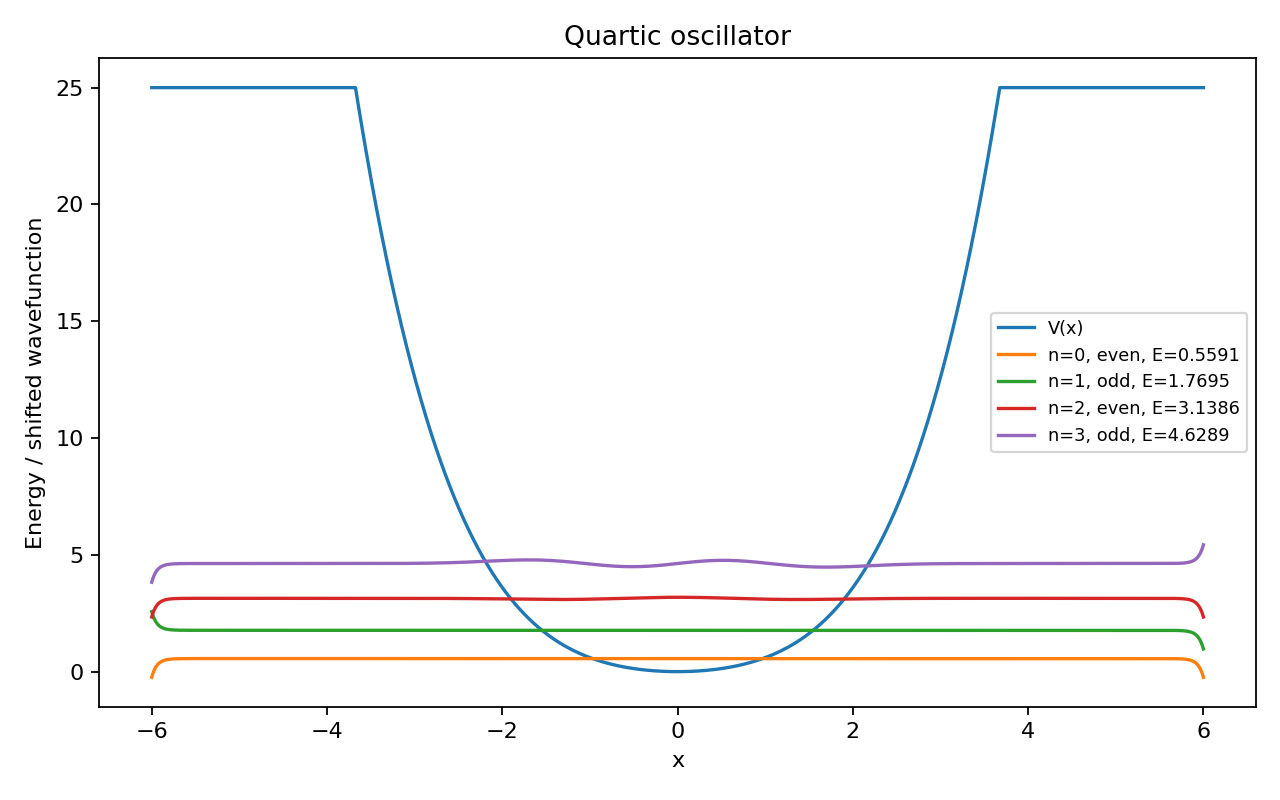
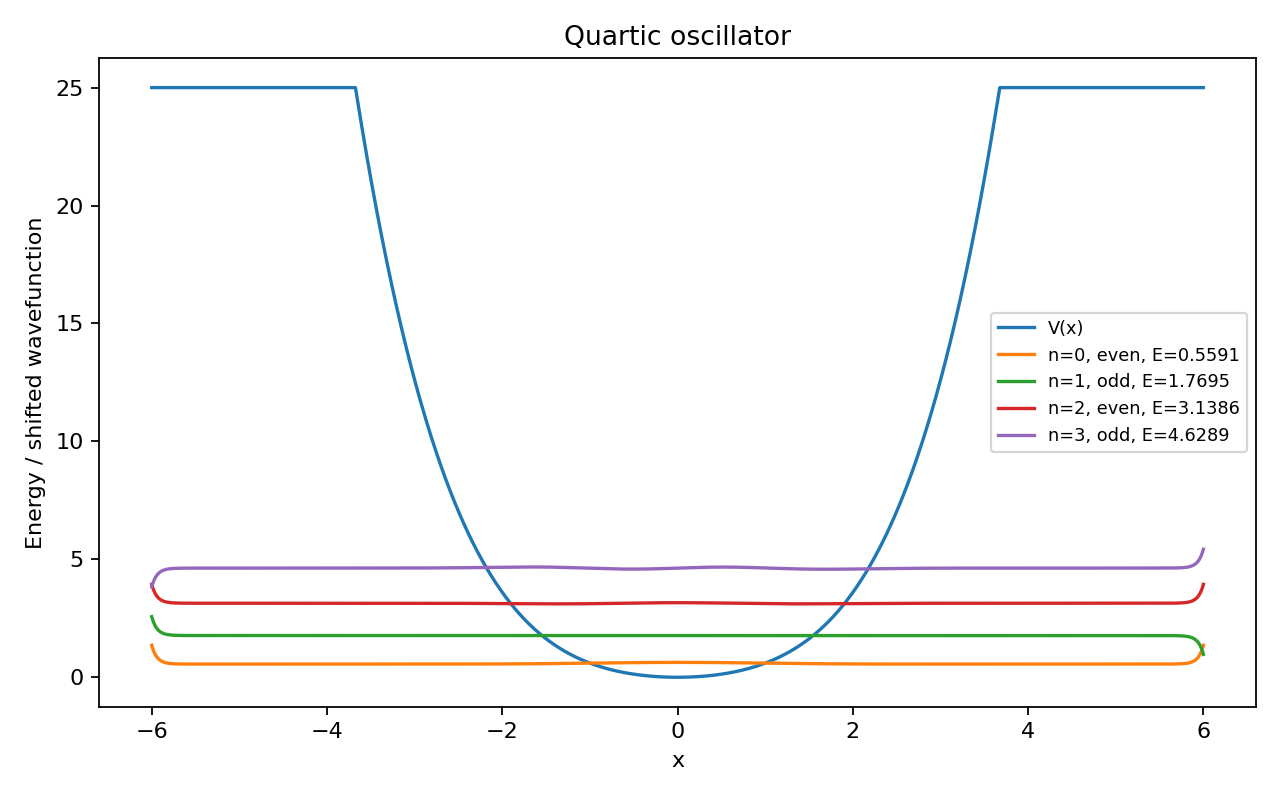
Debugged infinite Square Well

Changed region(s): [[0.0938, 0.5938, 0.9375, 0.875], [0.0312, 0.5312, 0.0625, 0.5625], [0.0312, 0.25, 0.0625, 0.2812]]

diff --git a/tests/test_solver.py b/tests/test_solver.py
@@ -18,7 +18,12 @@ if str(PROJECT_ROOT) not in sys.path:
 
 import numpy as np
 
-from src.analysis import exact_harmonic_oscillator_energies, exact_square_well_energies
+from src.analysis import (
+    convergence_vs_grid,
+    estimate_convergence_slopes,
+    exact_harmonic_oscillator_energies,
+    exact_square_well_energies,
+)
 from src.numerov import derivative_at_right_edge, normalize_wavefunction
 from src.potentials import (
     double_square_barrier,
@@ -117,6 +122,33 @@ def test_square_well_ground_state() -> None:
     e0 = states[0].energy
     exact = exact_square_well_energies(np.array([1]), a=a)[0]
     assert abs(e0 - exact) / exact < 5e-3
+
+
+# ---------------------------------------------------------------------------
+# FUNCTION: test_square_well_convergence_order
+# Reviewer note: this named block is one logical unit of the implementation.
+# ---------------------------------------------------------------------------
+def test_square_well_convergence_order() -> None:
+    """
+    Check that square-well energies show near-fourth-order grid convergence.
+    """
+    a = 1.0
+    exact = exact_square_well_energies(np.arange(1, 4), a=a)
+    conv = convergence_vs_grid(
+        potential_fn=infinite_square_well_numeric,
+        potential_kwargs={"a": a, "wall_height": 1.0e6},
+        x_max=a,
+        grid_sizes=[50, 80, 120, 180],
+        n_even=2,
+        n_odd=1,
+        e_min=0.1,
+        e_max=60.0,
+        reference_energies=exact,
+    )
+    slopes = estimate_convergence_slopes(conv["h"], conv["energy_errors"])
+
+    for row in slopes:
+        assert row["convergence_exponent_p"] > 3.8
 
 
 # ---------------------------------------------------------------------------
@@ -232,6 +264,7 @@ def run_all_tests() -> None:
     test_derivative_at_right_edge_polynomial()
     test_find_rk4_brackets_accepts_exact_zero_hit()
     test_square_well_ground_state()
+    test_square_well_convergence_order()
     test_harmonic_oscillator_first_levels()
     test_harmonic_oscillator_inward_decay_first_levels()
     test_double_well_splitting_positive()

diff --git a/src/shooting.py b/src/shooting.py
@@ -82,12 +82,14 @@ def initial_conditions(
 
     if parity == "even":
         # psi(0) = 1 and psi'(0) = 0.
-        # The second grid value includes the Taylor correction psi(h) = 1 + q(0)h^2/2 + O(h^4).
-        return 1.0, 1.0 + 0.5 * q0 * h**2
+        # Include the h^4 term so the two-step startup does not dominate the
+        # nominal fourth-order eigenvalue convergence of the Numerov solve in
+        # constant-curvature regions such as the square-well interior.
+        return 1.0, 1.0 + 0.5 * q0 * h**2 + (q0**2 * h**4) / 24.0
     if parity == "odd":
         # psi(0) = 0 and psi'(0) = 1.
-        # The second grid value includes psi(h) = h + q(0)h^3/6 + O(h^5).
-        return 0.0, h + (q0 * h**3) / 6.0
+        # Include the h^5 term for the same reason as the even startup above.
+        return 0.0, h + (q0 * h**3) / 6.0 + (q0**2 * h**5) / 120.0
 
     raise ValueError("parity must be 'even' or 'odd'")
 

diff --git a/src/experiments.py b/src/experiments.py
@@ -502,7 +502,10 @@ def run_square_well(results_dir: Path) -> None:
         potential_fn=infinite_square_well_numeric,
         potential_kwargs={"a": a, "wall_height": 1e6},
         x_max=a,
-        grid_sizes=[50, 80, 120, 180, 260, 400],
+        # Stop before the lowest-state error reaches the root-finding / floating
+        # point floor; otherwise the fitted slope understates the true Numerov
+        # asymptotic order.
+        grid_sizes=[50, 80, 120, 180],
         n_even=2,
         n_odd=1,
         e_min=0.1,